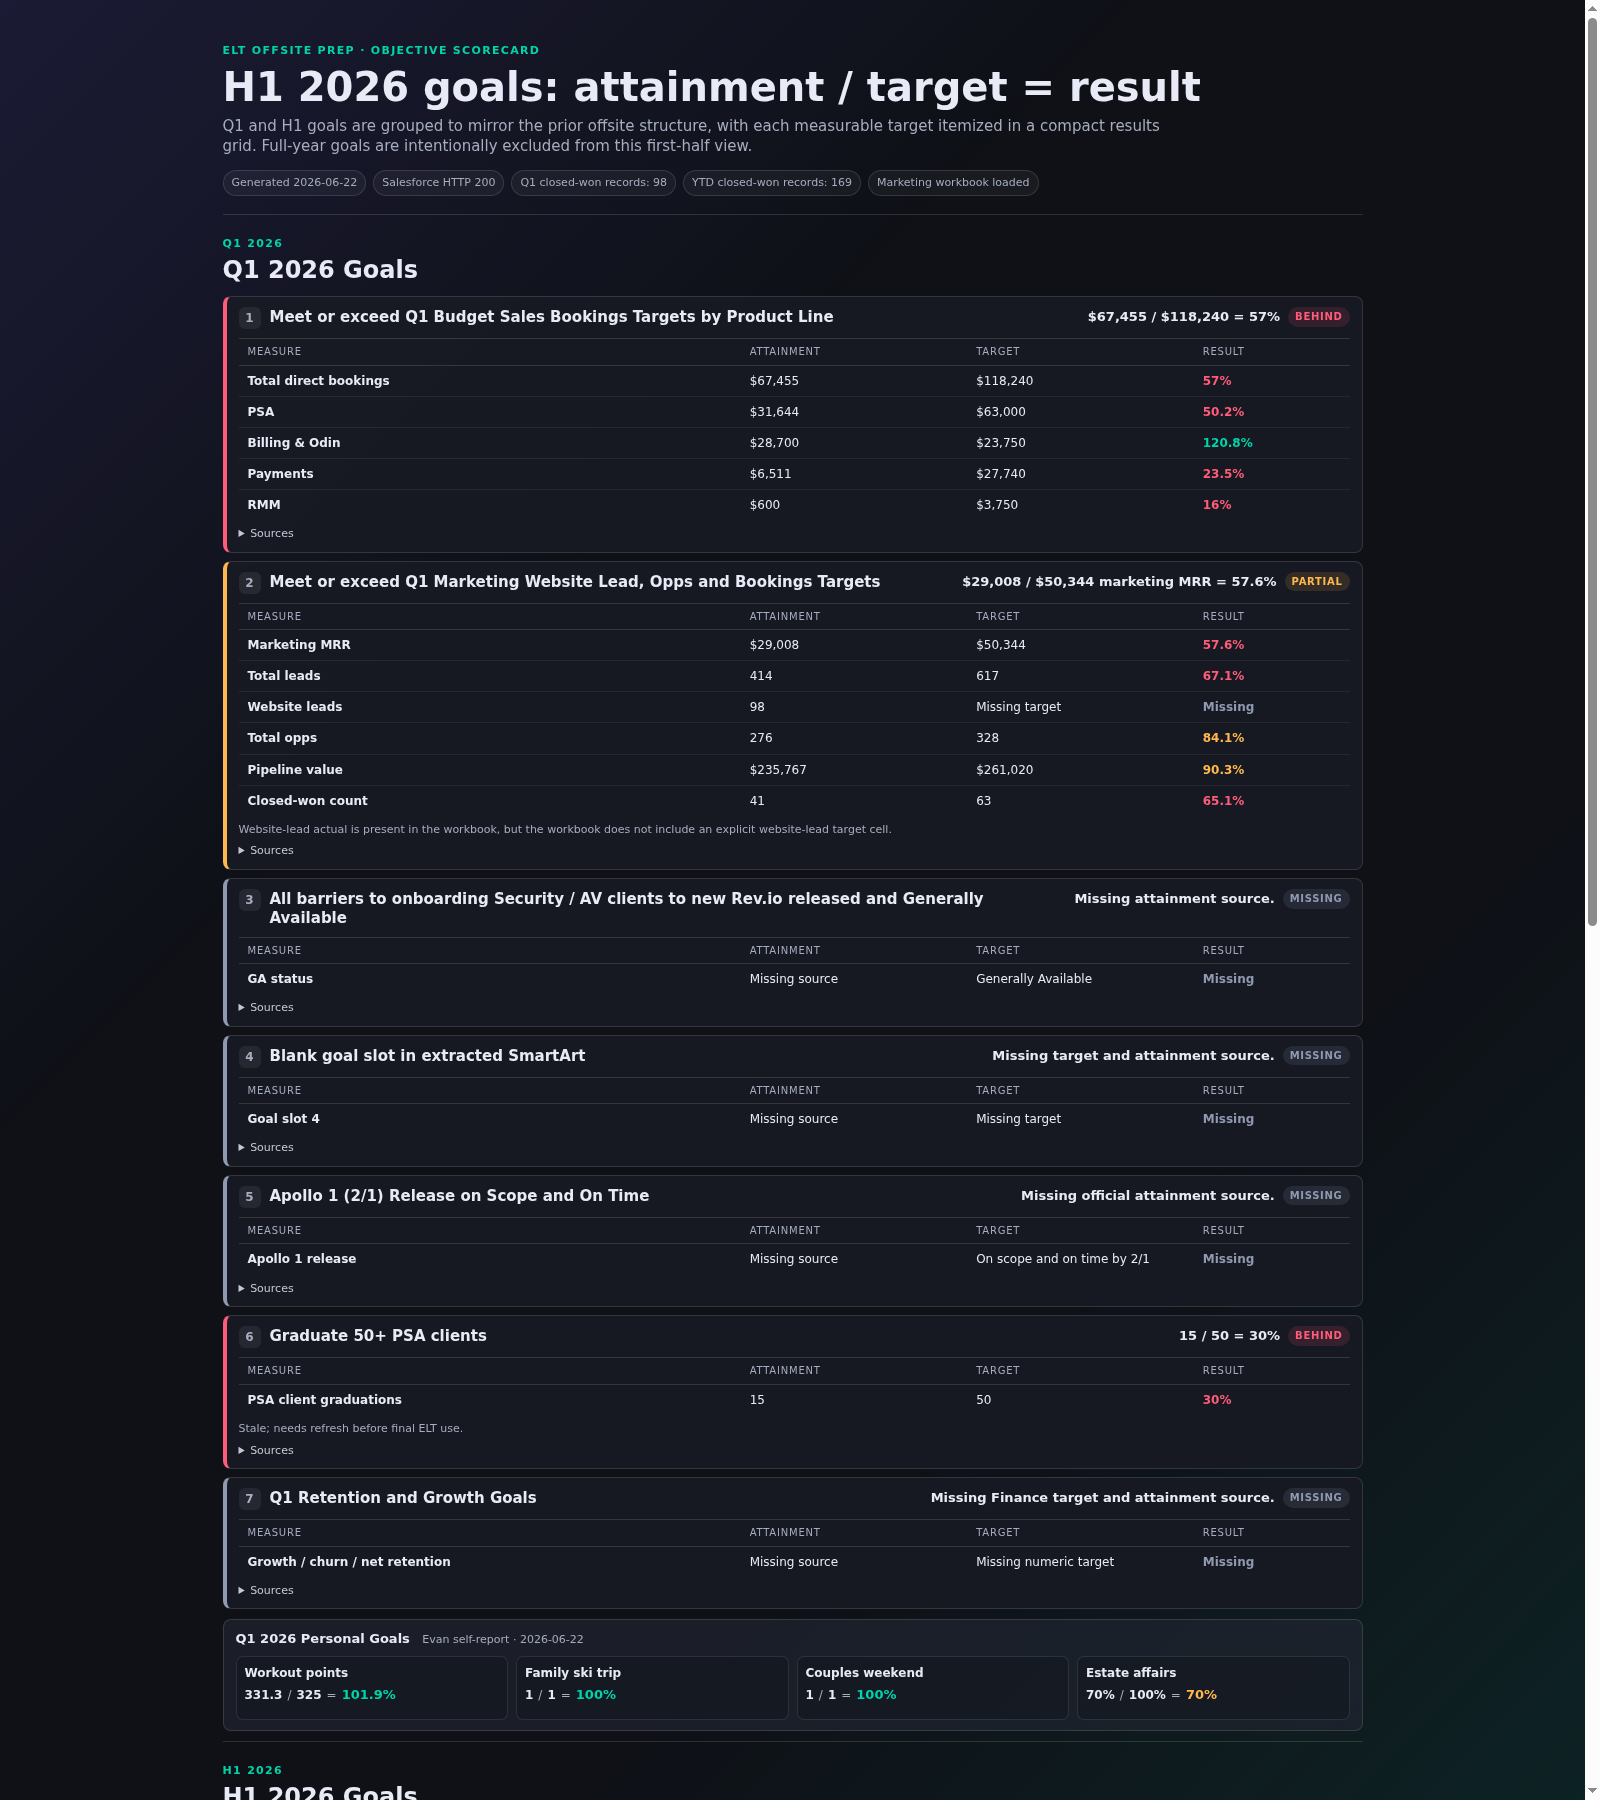
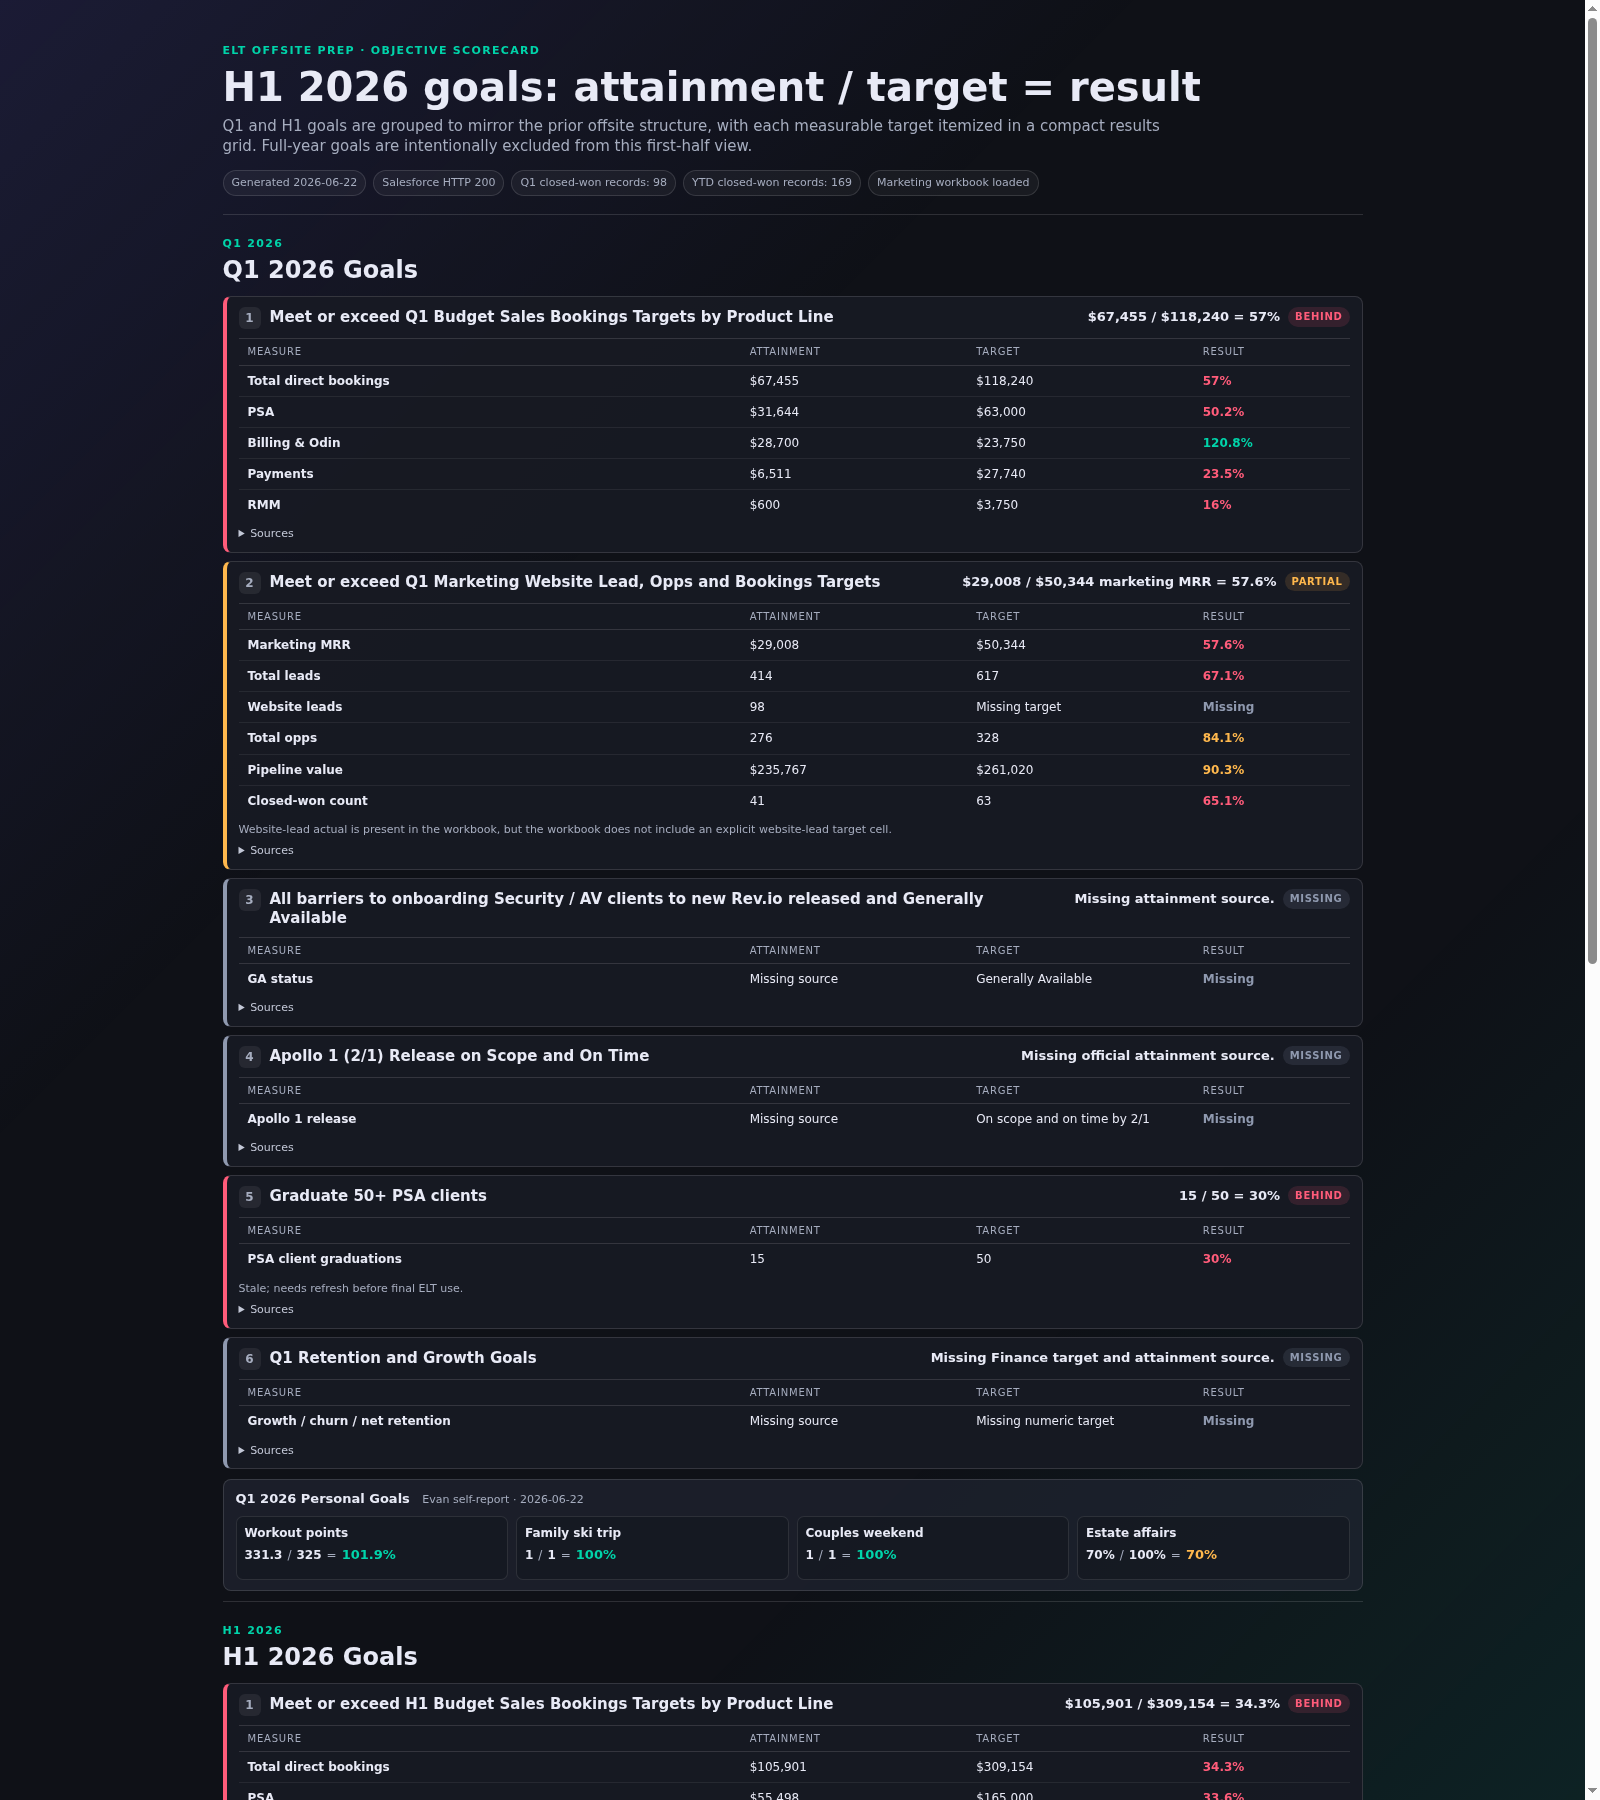
Remove blank Q1 goal from scorecard

diff --git a/elt-goals-h1/index.html b/elt-goals-h1/index.html
@@ -112,21 +112,7 @@
     <details class="source"><summary>Sources</summary><p>Target: prior deck SmartArt data2.xml. Attainment source needed: Product/Onboarding GA certification.</p></details>
   </article><article class="goal missing">
     <div class="goal-head">
-      <div><span class="num">4</span><h3>Blank goal slot in extracted SmartArt</h3></div>
-      <div class="summary"><b>Missing target and attainment source.</b><span class="badge missing">Missing</span></div>
-    </div>
-    <div class="metric-header"><span>Measure</span><span>Attainment</span><span>Target</span><span>Result</span></div>
-    <div class="metrics"><div class="metric missing">
-    <div class="metric-name">Goal slot 4</div>
-    <div class="metric-val">Missing source</div>
-    <div class="metric-val">Missing target</div>
-    <div class="metric-pct">Missing</div>
-  </div></div>
-    
-    <details class="source"><summary>Sources</summary><p>Target: prior deck SmartArt data2.xml Q1 goal slot contains only “4.”</p></details>
-  </article><article class="goal missing">
-    <div class="goal-head">
-      <div><span class="num">5</span><h3>Apollo 1 (2/1) Release on Scope and On Time</h3></div>
+      <div><span class="num">4</span><h3>Apollo 1 (2/1) Release on Scope and On Time</h3></div>
       <div class="summary"><b>Missing official attainment source.</b><span class="badge missing">Missing</span></div>
     </div>
     <div class="metric-header"><span>Measure</span><span>Attainment</span><span>Target</span><span>Result</span></div>
@@ -140,7 +126,7 @@
     <details class="source"><summary>Sources</summary><p>Target: prior deck SmartArt data2.xml. Attainment source needed: Product-certified Apollo 1 committed scope and release status.</p></details>
   </article><article class="goal bad">
     <div class="goal-head">
-      <div><span class="num">6</span><h3>Graduate 50+ PSA clients</h3></div>
+      <div><span class="num">5</span><h3>Graduate 50+ PSA clients</h3></div>
       <div class="summary"><b>15 / 50 = 30%</b><span class="badge bad">Behind</span></div>
     </div>
     <div class="metric-header"><span>Measure</span><span>Attainment</span><span>Target</span><span>Result</span></div>
@@ -154,7 +140,7 @@
     <details class="source"><summary>Sources</summary><p>Target: prior deck SmartArt data2.xml. Attainment: Alfred contribution, PSA Clients dashboard HTTP 200 with 215 non-archived records, pulled 2026-06-18.</p></details>
   </article><article class="goal missing">
     <div class="goal-head">
-      <div><span class="num">7</span><h3>Q1 Retention and Growth Goals</h3></div>
+      <div><span class="num">6</span><h3>Q1 Retention and Growth Goals</h3></div>
       <div class="summary"><b>Missing Finance target and attainment source.</b><span class="badge missing">Missing</span></div>
     </div>
     <div class="metric-header"><span>Measure</span><span>Attainment</span><span>Target</span><span>Result</span></div>

diff --git a/elt-goals.html b/elt-goals.html
@@ -112,21 +112,7 @@
     <details class="source"><summary>Sources</summary><p>Target: prior deck SmartArt data2.xml. Attainment source needed: Product/Onboarding GA certification.</p></details>
   </article><article class="goal missing">
     <div class="goal-head">
-      <div><span class="num">4</span><h3>Blank goal slot in extracted SmartArt</h3></div>
-      <div class="summary"><b>Missing target and attainment source.</b><span class="badge missing">Missing</span></div>
-    </div>
-    <div class="metric-header"><span>Measure</span><span>Attainment</span><span>Target</span><span>Result</span></div>
-    <div class="metrics"><div class="metric missing">
-    <div class="metric-name">Goal slot 4</div>
-    <div class="metric-val">Missing source</div>
-    <div class="metric-val">Missing target</div>
-    <div class="metric-pct">Missing</div>
-  </div></div>
-    
-    <details class="source"><summary>Sources</summary><p>Target: prior deck SmartArt data2.xml Q1 goal slot contains only “4.”</p></details>
-  </article><article class="goal missing">
-    <div class="goal-head">
-      <div><span class="num">5</span><h3>Apollo 1 (2/1) Release on Scope and On Time</h3></div>
+      <div><span class="num">4</span><h3>Apollo 1 (2/1) Release on Scope and On Time</h3></div>
       <div class="summary"><b>Missing official attainment source.</b><span class="badge missing">Missing</span></div>
     </div>
     <div class="metric-header"><span>Measure</span><span>Attainment</span><span>Target</span><span>Result</span></div>
@@ -140,7 +126,7 @@
     <details class="source"><summary>Sources</summary><p>Target: prior deck SmartArt data2.xml. Attainment source needed: Product-certified Apollo 1 committed scope and release status.</p></details>
   </article><article class="goal bad">
     <div class="goal-head">
-      <div><span class="num">6</span><h3>Graduate 50+ PSA clients</h3></div>
+      <div><span class="num">5</span><h3>Graduate 50+ PSA clients</h3></div>
       <div class="summary"><b>15 / 50 = 30%</b><span class="badge bad">Behind</span></div>
     </div>
     <div class="metric-header"><span>Measure</span><span>Attainment</span><span>Target</span><span>Result</span></div>
@@ -154,7 +140,7 @@
     <details class="source"><summary>Sources</summary><p>Target: prior deck SmartArt data2.xml. Attainment: Alfred contribution, PSA Clients dashboard HTTP 200 with 215 non-archived records, pulled 2026-06-18.</p></details>
   </article><article class="goal missing">
     <div class="goal-head">
-      <div><span class="num">7</span><h3>Q1 Retention and Growth Goals</h3></div>
+      <div><span class="num">6</span><h3>Q1 Retention and Growth Goals</h3></div>
       <div class="summary"><b>Missing Finance target and attainment source.</b><span class="badge missing">Missing</span></div>
     </div>
     <div class="metric-header"><span>Measure</span><span>Attainment</span><span>Target</span><span>Result</span></div>

diff --git a/elt-goals/index.html b/elt-goals/index.html
@@ -112,21 +112,7 @@
     <details class="source"><summary>Sources</summary><p>Target: prior deck SmartArt data2.xml. Attainment source needed: Product/Onboarding GA certification.</p></details>
   </article><article class="goal missing">
     <div class="goal-head">
-      <div><span class="num">4</span><h3>Blank goal slot in extracted SmartArt</h3></div>
-      <div class="summary"><b>Missing target and attainment source.</b><span class="badge missing">Missing</span></div>
-    </div>
-    <div class="metric-header"><span>Measure</span><span>Attainment</span><span>Target</span><span>Result</span></div>
-    <div class="metrics"><div class="metric missing">
-    <div class="metric-name">Goal slot 4</div>
-    <div class="metric-val">Missing source</div>
-    <div class="metric-val">Missing target</div>
-    <div class="metric-pct">Missing</div>
-  </div></div>
-    
-    <details class="source"><summary>Sources</summary><p>Target: prior deck SmartArt data2.xml Q1 goal slot contains only “4.”</p></details>
-  </article><article class="goal missing">
-    <div class="goal-head">
-      <div><span class="num">5</span><h3>Apollo 1 (2/1) Release on Scope and On Time</h3></div>
+      <div><span class="num">4</span><h3>Apollo 1 (2/1) Release on Scope and On Time</h3></div>
       <div class="summary"><b>Missing official attainment source.</b><span class="badge missing">Missing</span></div>
     </div>
     <div class="metric-header"><span>Measure</span><span>Attainment</span><span>Target</span><span>Result</span></div>
@@ -140,7 +126,7 @@
     <details class="source"><summary>Sources</summary><p>Target: prior deck SmartArt data2.xml. Attainment source needed: Product-certified Apollo 1 committed scope and release status.</p></details>
   </article><article class="goal bad">
     <div class="goal-head">
-      <div><span class="num">6</span><h3>Graduate 50+ PSA clients</h3></div>
+      <div><span class="num">5</span><h3>Graduate 50+ PSA clients</h3></div>
       <div class="summary"><b>15 / 50 = 30%</b><span class="badge bad">Behind</span></div>
     </div>
     <div class="metric-header"><span>Measure</span><span>Attainment</span><span>Target</span><span>Result</span></div>
@@ -154,7 +140,7 @@
     <details class="source"><summary>Sources</summary><p>Target: prior deck SmartArt data2.xml. Attainment: Alfred contribution, PSA Clients dashboard HTTP 200 with 215 non-archived records, pulled 2026-06-18.</p></details>
   </article><article class="goal missing">
     <div class="goal-head">
-      <div><span class="num">7</span><h3>Q1 Retention and Growth Goals</h3></div>
+      <div><span class="num">6</span><h3>Q1 Retention and Growth Goals</h3></div>
       <div class="summary"><b>Missing Finance target and attainment source.</b><span class="badge missing">Missing</span></div>
     </div>
     <div class="metric-header"><span>Measure</span><span>Attainment</span><span>Target</span><span>Result</span></div>

diff --git a/elt-offsite-2026-goals-attainment.html b/elt-offsite-2026-goals-attainment.html
@@ -112,21 +112,7 @@
     <details class="source"><summary>Sources</summary><p>Target: prior deck SmartArt data2.xml. Attainment source needed: Product/Onboarding GA certification.</p></details>
   </article><article class="goal missing">
     <div class="goal-head">
-      <div><span class="num">4</span><h3>Blank goal slot in extracted SmartArt</h3></div>
-      <div class="summary"><b>Missing target and attainment source.</b><span class="badge missing">Missing</span></div>
-    </div>
-    <div class="metric-header"><span>Measure</span><span>Attainment</span><span>Target</span><span>Result</span></div>
-    <div class="metrics"><div class="metric missing">
-    <div class="metric-name">Goal slot 4</div>
-    <div class="metric-val">Missing source</div>
-    <div class="metric-val">Missing target</div>
-    <div class="metric-pct">Missing</div>
-  </div></div>
-    
-    <details class="source"><summary>Sources</summary><p>Target: prior deck SmartArt data2.xml Q1 goal slot contains only “4.”</p></details>
-  </article><article class="goal missing">
-    <div class="goal-head">
-      <div><span class="num">5</span><h3>Apollo 1 (2/1) Release on Scope and On Time</h3></div>
+      <div><span class="num">4</span><h3>Apollo 1 (2/1) Release on Scope and On Time</h3></div>
       <div class="summary"><b>Missing official attainment source.</b><span class="badge missing">Missing</span></div>
     </div>
     <div class="metric-header"><span>Measure</span><span>Attainment</span><span>Target</span><span>Result</span></div>
@@ -140,7 +126,7 @@
     <details class="source"><summary>Sources</summary><p>Target: prior deck SmartArt data2.xml. Attainment source needed: Product-certified Apollo 1 committed scope and release status.</p></details>
   </article><article class="goal bad">
     <div class="goal-head">
-      <div><span class="num">6</span><h3>Graduate 50+ PSA clients</h3></div>
+      <div><span class="num">5</span><h3>Graduate 50+ PSA clients</h3></div>
       <div class="summary"><b>15 / 50 = 30%</b><span class="badge bad">Behind</span></div>
     </div>
     <div class="metric-header"><span>Measure</span><span>Attainment</span><span>Target</span><span>Result</span></div>
@@ -154,7 +140,7 @@
     <details class="source"><summary>Sources</summary><p>Target: prior deck SmartArt data2.xml. Attainment: Alfred contribution, PSA Clients dashboard HTTP 200 with 215 non-archived records, pulled 2026-06-18.</p></details>
   </article><article class="goal missing">
     <div class="goal-head">
-      <div><span class="num">7</span><h3>Q1 Retention and Growth Goals</h3></div>
+      <div><span class="num">6</span><h3>Q1 Retention and Growth Goals</h3></div>
       <div class="summary"><b>Missing Finance target and attainment source.</b><span class="badge missing">Missing</span></div>
     </div>
     <div class="metric-header"><span>Measure</span><span>Attainment</span><span>Target</span><span>Result</span></div>
